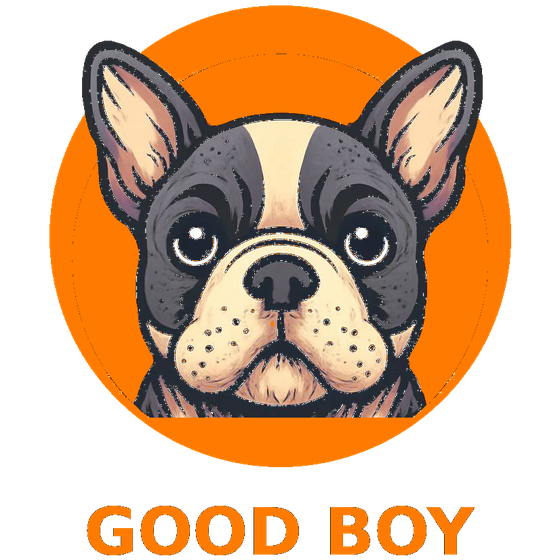
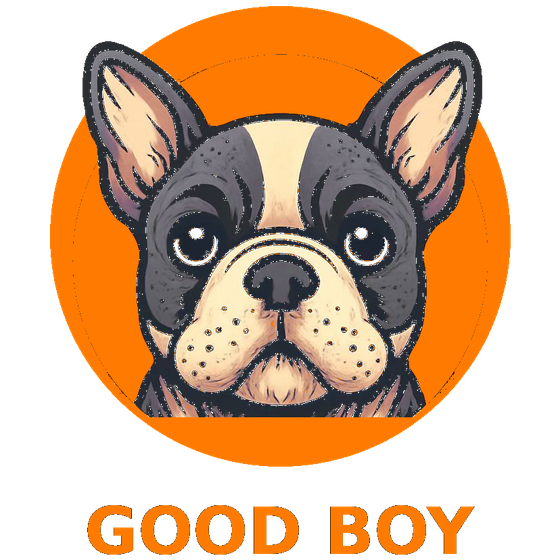
feat(goodboy): официальный логотип с прозрачным фоном
Полный логотип (круг + GOOD BOY) в hero, mark в nav.

diff --git a/goodboy/index.html b/goodboy/index.html
@@ -15,8 +15,8 @@
   <link rel="preconnect" href="https://fonts.googleapis.com" />
   <link rel="preconnect" href="https://fonts.gstatic.com" crossorigin />
   <link href="https://fonts.googleapis.com/css2?family=Archivo+Black&family=Outfit:wght@500;600;700;800&display=swap" rel="stylesheet" />
-  <link rel="stylesheet" href="css/goodboy.css?v=022" />
-  <link rel="stylesheet" href="css/site.css?v=022" />
+  <link rel="stylesheet" href="css/goodboy.css?v=023" />
+  <link rel="stylesheet" href="css/site.css?v=023" />
   <script src="https://telegram.org/js/telegram-web-app.js"></script>
 </head>
 <body class="gb-site">
@@ -53,7 +53,7 @@
           <div class="hero-glow" aria-hidden="true"></div>
           <div class="hero-ring" aria-hidden="true"></div>
           <div class="hero-ring r2" aria-hidden="true"></div>
-          <img class="hero-logo" src="assets/goodboy-mark.png" width="560" height="560" alt="GOOD BOY" fetchpriority="high" />
+          <img class="hero-logo" src="assets/goodboy-logo.png" width="720" height="850" alt="GOOD BOY" fetchpriority="high" />
         </div>
       </div>
     </header>
@@ -116,24 +116,24 @@
 
     <footer class="site-footer">
       GOOD BOY · Минск · <a href="https://www.instagram.com/goodboy_rb" target="_blank" rel="noopener">@goodboy_rb</a>
-      · v0.2.2
+      · v0.2.3
     </footer>
   </div>
 
   <button type="button" class="app-exit" id="appExit">← На сайт</button>
   <div id="gb-mount" aria-live="polite"></div>
 
-  <script src="js/config.js?v=022"></script>
-  <script src="js/demo-api.js?v=022"></script>
-  <script src="js/api.js?v=022"></script>
-  <script src="js/store.js?v=022"></script>
-  <script src="js/auth.js?v=022"></script>
-  <script src="js/screens.js?v=022"></script>
-  <script src="js/app.js?v=022"></script>
-  <script src="js/site.js?v=022"></script>
-  <script src="js/motion.js?v=022"></script>
+  <script src="js/config.js?v=023"></script>
+  <script src="js/demo-api.js?v=023"></script>
+  <script src="js/api.js?v=023"></script>
+  <script src="js/store.js?v=023"></script>
+  <script src="js/auth.js?v=023"></script>
+  <script src="js/screens.js?v=023"></script>
+  <script src="js/app.js?v=023"></script>
+  <script src="js/site.js?v=023"></script>
+  <script src="js/motion.js?v=023"></script>
   <script>
-    GB_CONFIG.version = "0.2.2";
+    GB_CONFIG.version = "0.2.3";
     document.addEventListener("DOMContentLoaded", function () {
       GBSite.wireSite();
       if (window.GBMotion) GBMotion.init();

diff --git a/goodboy/css/site.css b/goodboy/css/site.css
@@ -284,12 +284,15 @@ body.mode-app:not(.is-miniapp) .app-exit { display: inline-flex; }
 
 .hero-stage {
   justify-self: center;
-  width: min(100%, 380px);
+  width: min(100%, 340px);
   position: relative;
+}
+@media (min-width: 880px) {
+  .hero-stage { width: min(100%, 400px); }
 }
 .hero-glow {
   position: absolute;
-  inset: 8%;
+  inset: 12% 8% 18% 8%;
   border-radius: 50%;
   background: radial-gradient(circle, rgba(245,154,46,0.45), transparent 68%);
   filter: blur(18px);
@@ -298,14 +301,14 @@ body.mode-app:not(.is-miniapp) .app-exit { display: inline-flex; }
 }
 .hero-ring {
   position: absolute;
-  inset: 2%;
+  inset: 6% 4% 14% 4%;
   border-radius: 50%;
   border: 1px solid rgba(245,154,46,0.28);
   z-index: 0;
   animation: ringOut 4.8s ease-out infinite;
 }
 .hero-ring.r2 {
-  inset: -4%;
+  inset: 0% -2% 8% -2%;
   animation-delay: 1.6s;
   opacity: 0.7;
 }
